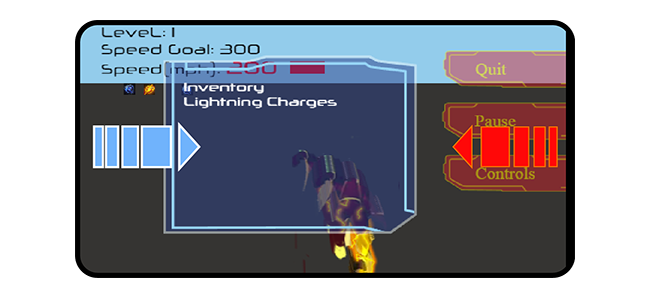
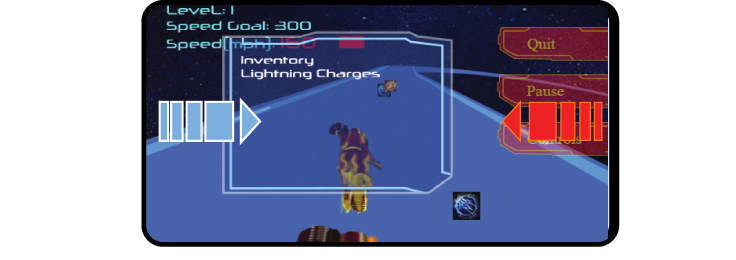
Update menu images and enemy origins

diff --git a/js/script.js b/js/script.js
@@ -13,8 +13,8 @@ function Model(player, enemies, lightning) {
     this.gameStarted = false;
     this.gamePaused = false;
     this.gameLevel = 1;
-    this.itemSpeedMin = 1400;
-    this.itemSpeedMax = 2000;
+    this.itemSpeedMin = 2500;
+    this.itemSpeedMax = 3000;
 };
 Model.prototype = {
     createLightning: function(e) {
@@ -28,7 +28,7 @@ Model.prototype = {
         this.lightning.push(new Lightning(x0,y0,x1,y1));
     },
     addEnemy: function() {
-        let enemyX = Math.floor(Math.random() * ((canvas.width/2 + 50) - (canvas.width/2 - 50)) + (canvas.width/2 - 50));
+        let enemyX = Math.floor(Math.random() * ((canvas.width/2 + 25) - (canvas.width/2 - 25) + 1) + (canvas.width/2 - 25));
         let enemyDx = Math.random() < 0.5 ? -.2 : .2;
         let enemyDy = 1;
         const radius = (Math.random() * 5) + 5;
@@ -39,7 +39,7 @@ Model.prototype = {
         if(color === 'blue') {
             image = 'images/negativePower.png';
         }
-        this.model.enemies.push(new Enemy(enemyX,50,radius,enemyDx,enemyDy,color,image,width));   
+        this.model.enemies.push(new Enemy(enemyX,70,radius,enemyDx,enemyDy,color,image,width));   
     }
 
 }
@@ -127,7 +127,7 @@ View.prototype = {
     },
     addEnemies: function() {
         for(let i=0;i<3;i++) {
-            let enemyX = Math.floor(Math.random() * ((canvas.width/2 + 50) - (canvas.width/2 - 50)) + (canvas.width/2 - 50));
+            let enemyX = Math.floor(Math.random() * ((canvas.width/2 + 25) - (canvas.width/2 - 25) + 1) + (canvas.width/2 - 25));
             let enemyDx = Math.random() < 0.5 ? -.2 : .2;
             let enemyDy = 1;
             const radius = (Math.random() * 5) + 5;
@@ -138,7 +138,7 @@ View.prototype = {
             if(color === 'blue') {
                 image = 'images/negativePower.png';
             }
-            this.model.enemies.push(new Enemy(enemyX,50,radius,enemyDx,enemyDy,color,image,width));  
+            this.model.enemies.push(new Enemy(enemyX,70,radius,enemyDx,enemyDy,color,image,width));  
         }
     },
     startGame: function() {
@@ -651,7 +651,6 @@ BackgroundCanvas.prototype.update = function() {
 };
 BackgroundCanvas.prototype.drawBackground = function() {
     c.shadowBlur = 0;
-    console.log(this.spaceBackground.width, this.spaceBackground.height)
     c.drawImage(
         this.spaceBackground,
         this.spaceBackgroundIndex,
@@ -705,9 +704,9 @@ Enemy.prototype.addEnemy = function() {
     if(color === 'blue') {
         image = 'images/negativePower.png';
     }
-    let x = Math.floor(Math.random() * ((canvas.width/2)))
+    let x = Math.floor(Math.random() * ((canvas.width/2 + 25) - (canvas.width/2 - 25) + 1) + (canvas.width/2 - 25));
     //let y = Math.random() * (canvas.height - radius * 2) + radius;
-    let y = 50;
+    let y = 70;
     //let dx = Math.random() * 2 + 2;
     let dx = 0;
     let dy = Math.random() * 3 + 2;
